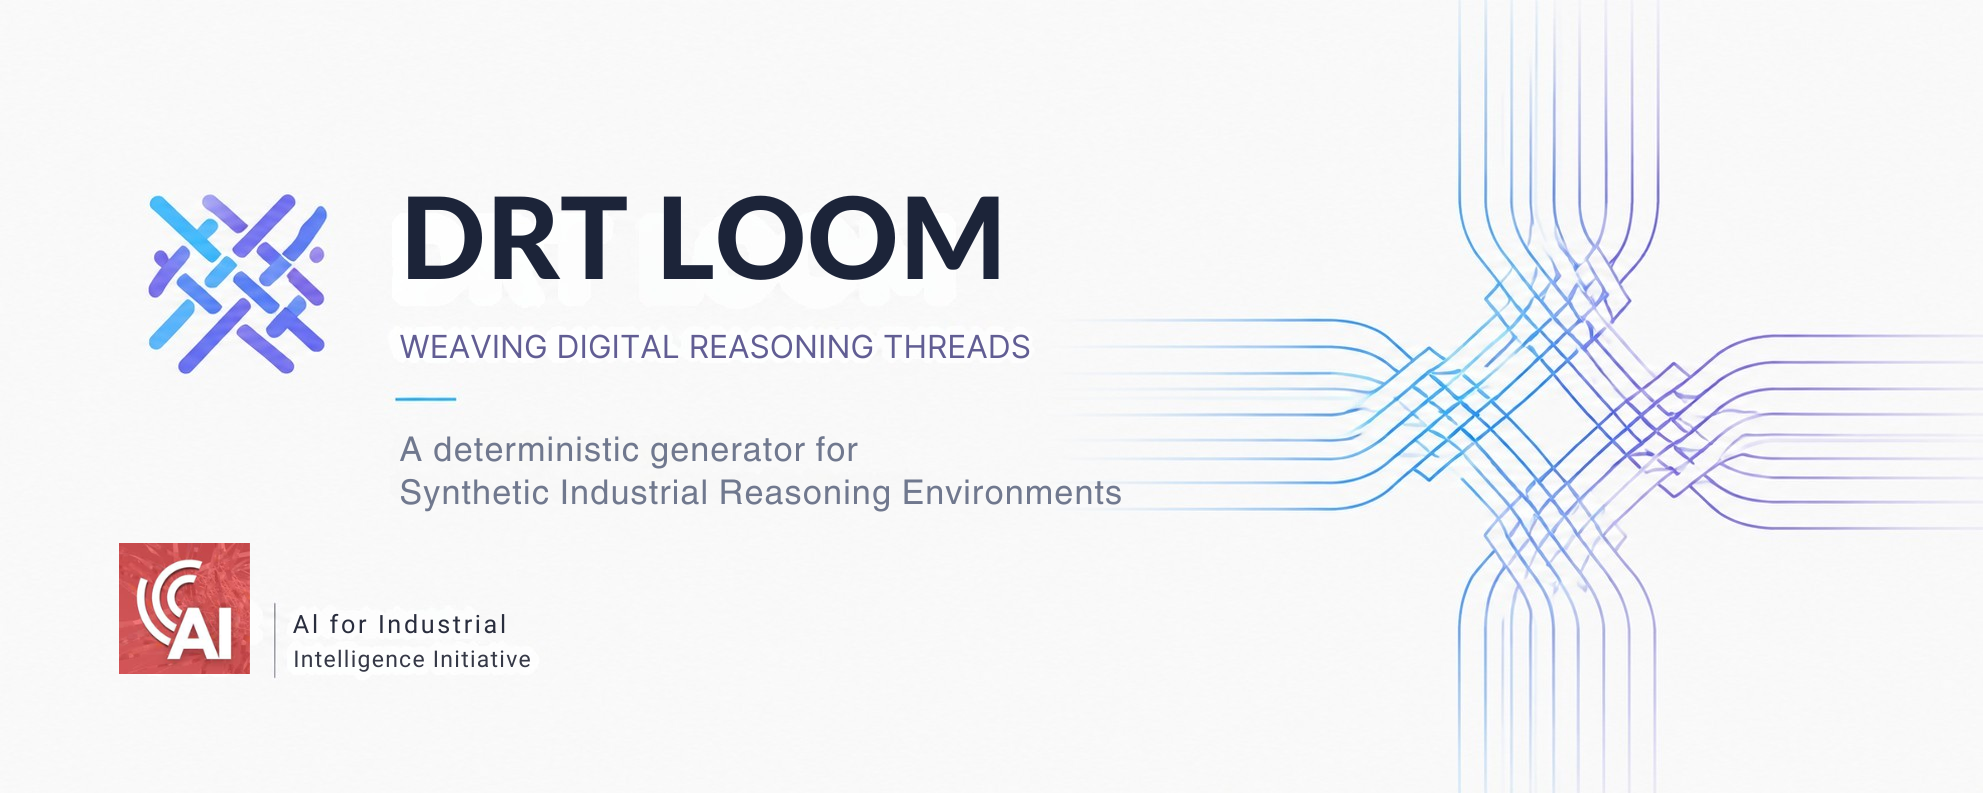
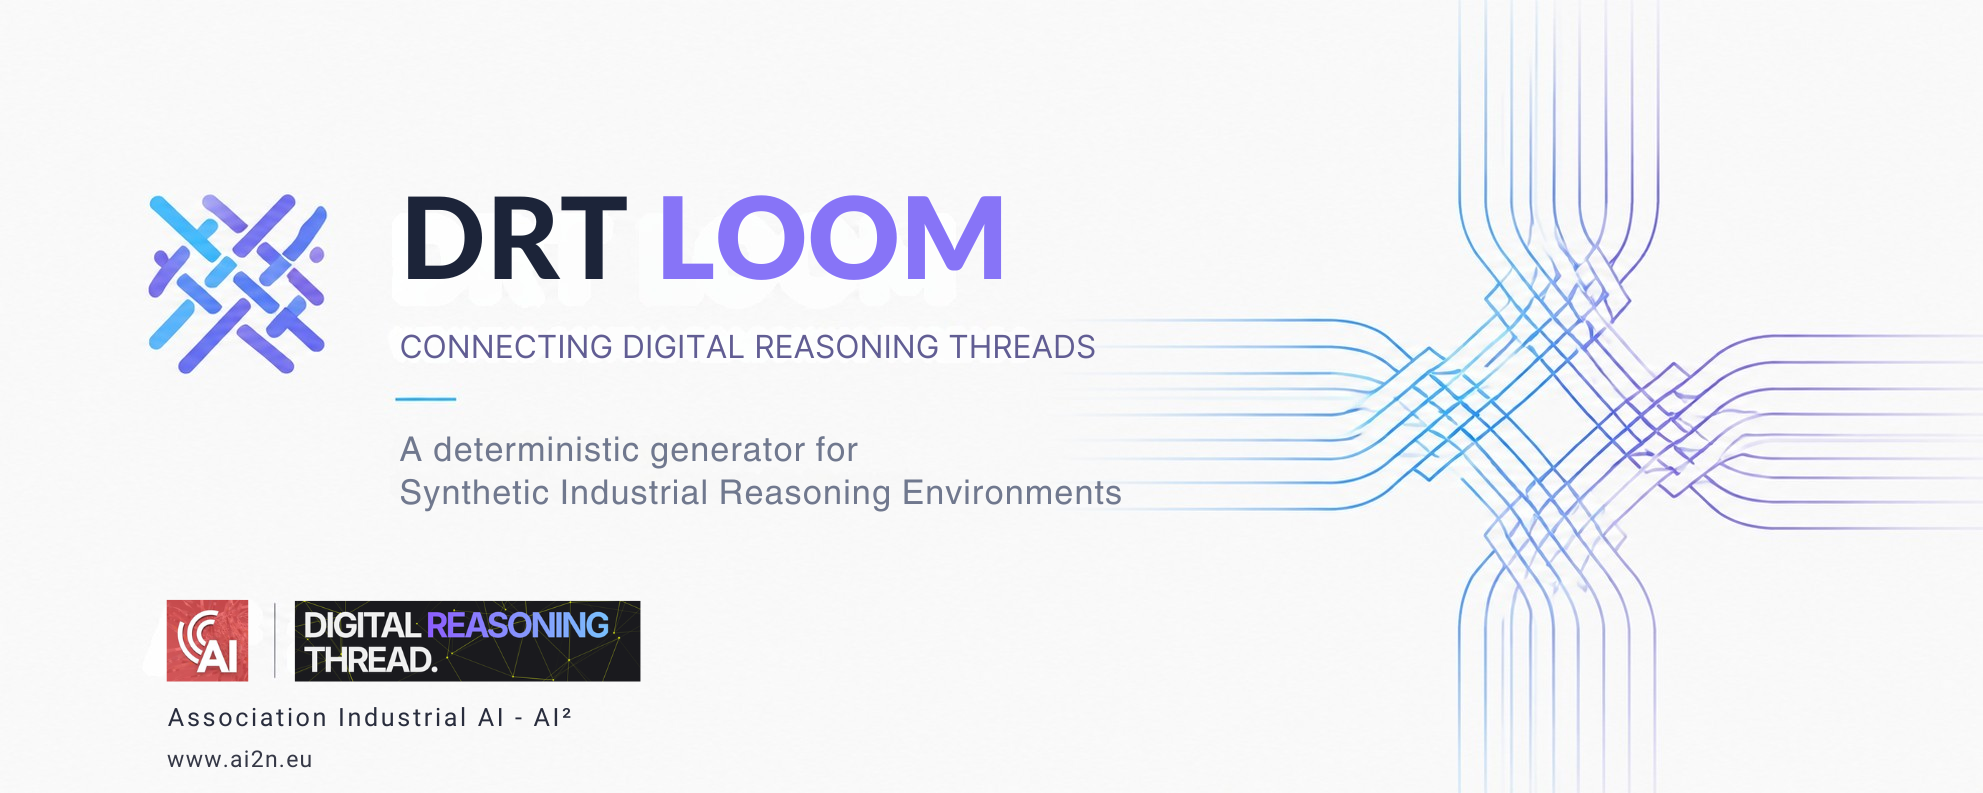
Add domain-extension guide, correct AI² name, link DRT concept site
Adds an appendix walking through extending DRT Loom to a new industrial domain,
using an Industrial Automation / OT layer as the worked example: alarm → tag →
control loop → equipment module → maintenance order → spare part → supplier.

Seven steps against the real APIs — declaring the closed type unions, writing a
generator over Builder and the seeded Rng, weaving the cross-domain hop that makes
it a reasoning thread, adding prose-only facts, deriving gold by traversal rather
than hardcoding it, wiring into the pipeline, and the two places that are not yet
domain-agnostic (the file_type enum in extract.py, the name-bearing type list in
score.ts). Documents the constraints that silently corrupt a build: parallel edges
of differing relation types, ids colliding with their source-file stem, and sanity
gates asserting on constants instead of shape.

The updated banner gives AI² its proper name, Association Industrial AI (ai2n.eu);
the README previously described it rather than named it. Also links the Digital
Reasoning Thread concept site and its repository, which specify the concept this
repository implements.

Changed region(s): [[0.0615, 0.6658, 0.3384, 0.9685], [0.3076, 0.2421, 0.5229, 0.3632], [0.1846, 0.4237, 0.5537, 0.454]]

diff --git a/README.md b/README.md
@@ -1,12 +1,13 @@
-![DRT Loom — weaving Digital Reasoning Threads. A deterministic generator for Synthetic Industrial Reasoning Environments. Part of the AI for Industrial Intelligence Initiative.](docs/assets/banner.png)
+![DRT Loom — connecting Digital Reasoning Threads. A deterministic generator for Synthetic Industrial Reasoning Environments. Association Industrial AI (AI²).](docs/assets/banner.png)
 
 # DRT Loom
 
 **A deterministic generator for Synthetic Industrial Reasoning Environments.**
 
-DRT Loom is a component of **AI²**, the AI for Industrial Intelligence Initiative —
-an open, vendor-neutral effort focused on Industrial Agentic AI. It is the
-reference implementation of the **Digital Reasoning Thread (DRT)** concept.
+DRT Loom is a component of **AI²**, the [Association Industrial AI](https://www.ai2n.eu)
+— an open, vendor-neutral initiative for Industrial Agentic AI. It is the reference
+implementation of the **Digital Reasoning Thread (DRT)** concept, which is specified
+at [digital-reasoning-thread.com](https://digital-reasoning-thread.com/).
 
 A loom does not make threads. It weaves them into fabric. DRT Loom does not
 generate synthetic data — it weaves ERP, PLM, MES, CAD, enterprise documents,
@@ -21,7 +22,7 @@ that connect them, a knowledge graph over the whole thing, and a set of benchmar
 questions instantiated against that specific world.
 
 ```
-AI²                                          AI for Industrial Intelligence Initiative
+AI²                                          Association Industrial AI
 └── Digital Reasoning Thread (DRT)           the unit of reasoning
     └── DRT Loom                             this repository
         ├── Synthetic Industrial Reasoning Environment Generator
@@ -30,6 +31,12 @@ AI²                                          AI for Industrial Intelligence Ini
         ├── Evaluation / Scoring
         └── Reference Worlds
 ```
+
+| | |
+|---|---|
+| Initiative | [Association Industrial AI (AI²)](https://www.ai2n.eu) |
+| Concept | [digital-reasoning-thread.com](https://digital-reasoning-thread.com/) · [vlarichev/digital-reasoning-thread](https://github.com/vlarichev/digital-reasoning-thread/) |
+| Implementation | this repository |
 
 ---
 
@@ -53,6 +60,11 @@ The DRT is therefore the fundamental unit of reasoning for Industrial Agentic AI
 and by extension the fundamental unit of evaluation. A system is not measured by
 whether it retrieves the right document, but by whether it can follow the thread
 to its end.
+
+The concept is specified separately from this implementation, at
+[digital-reasoning-thread.com](https://digital-reasoning-thread.com/)
+([source](https://github.com/vlarichev/digital-reasoning-thread/)). DRT Loom is
+where it becomes something you can generate and measure against.
 
 ---
 
@@ -156,6 +168,9 @@ equipment module → maintenance order → spare part → supplier — has a dif
 vocabulary from the manufacturing thread in §1 and the same shape. Both are chains
 of relationships spanning systems that no single system owns, and both are scored
 the same way.
+
+A worked, step-by-step guide to adding one: [Extending DRT Loom to a new
+domain](#appendix-extending-drt-loom-to-a-new-domain).
 
 **Status of this design goal.** Parts of the pipeline are already
 domain-independent: [`src/generate/rng.ts`](src/generate/rng.ts) is a pure seeded
@@ -480,6 +495,312 @@ quotes no comparative results.
    relation unions in `src/types.ts` behind a registered domain module, and remove
    the hardcoded entity-type filter in `src/score/score.ts`, so a second domain can
    be added without forking the generator.
+
+---
+
+## Appendix: extending DRT Loom to a new domain
+
+This is the concrete procedure behind the design goal in §4. It documents the
+current code as it stands — there is no plugin registry yet, so a new domain means
+editing the generator rather than installing into it. Everything below refers to
+real files and real function signatures.
+
+The worked example adds an **Industrial Automation / OT** layer to the existing
+environment: an alarm on a process tag, traced through control logic and equipment
+to a maintenance order, a spare part and the supplier who ships it.
+
+```
+Alarm → Tag → Control Loop → Equipment Module → Maintenance Order → Part → Supplier
+```
+
+Adding it to the existing world rather than starting a new one is the cheaper
+path, and the more interesting one: the thread terminates in the `Part` and
+`Supplier` entities the manufacturing domain already owns, so an OT question
+becomes answerable only by crossing into ERP.
+
+### Step 1 — declare the vocabulary
+
+Node and relation types are closed unions in [`src/types.ts`](src/types.ts).
+TypeScript will now flag every unhandled case, which is the point.
+
+```ts
+// src/types.ts
+export type NodeType =
+  | "Customer"
+  // … existing manufacturing types …
+  | "Shipment"
+  /* automation */
+  | "EquipmentModule"
+  | "ControlLoop"
+  | "Tag"
+  | "Alarm"
+  | "MaintenanceOrder";
+
+export type RelationType =
+  // … existing relations …
+  /* automation */
+  | "part_of_line"    // EquipmentModule  -> EquipmentModule
+  | "controls"        // ControlLoop      -> EquipmentModule
+  | "reads_tag"       // ControlLoop      -> Tag
+  | "raised_on"       // Alarm            -> Tag
+  | "triggered"       // Alarm            -> MaintenanceOrder
+  | "consumes_spare"; // MaintenanceOrder -> Part      ← crosses into ERP
+```
+
+One constraint to design around before you write any code: the graph build rejects
+**two different relation types between the same ordered pair** of entities. Graphify
+returns a `DiGraph`, so parallel edges collapse and a fact would be lost silently;
+[`extractor/extract.py`](extractor/extract.py) fails the build rather than allow it.
+Duplicate edges of the *same* type are fine and are collapsed with a note.
+
+### Step 2 — write the generator
+
+A domain module is a function over the shared [`Builder`](src/generate/builder.ts)
+and a seeded [`Rng`](src/generate/rng.ts). Create `src/generate/automation.ts`:
+
+```ts
+import type { Builder } from "./builder";
+import type { MasterData } from "./master-data";
+import { chance, dateBetween, int, pick, round, seq, type Rng } from "./rng";
+
+export interface AutomationIndex {
+  moduleIds: string[];
+  tagIds: string[];
+  alarmIds: string[];
+}
+
+export function buildAutomation(b: Builder, md: MasterData, rng: Rng): AutomationIndex {
+  const ix: AutomationIndex = { moduleIds: [], tagIds: [], alarmIds: [] };
+
+  for (let i = 1; i <= 12; i++) {
+    const modId = `EQM-${seq(i, 3)}`;
+    b.entity(modId, "EquipmentModule", `Equipment module ${seq(i, 3)}`, "ot/isa95_assets.json", {
+      isa95Level: "unit",
+      area: pick(rng, ["Machining", "Assembly", "Test", "Paint"]),
+      commissioned: dateBetween(rng, "2018-01-01", "2025-06-01"),
+    });
+    ix.moduleIds.push(modId);
+
+    const tagId = `TAG-${seq(i, 4)}`;
+    b.entity(tagId, "Tag", `${modId}.SpindleTemp`, "ot/tag_dictionary.csv", {
+      address: `DB${int(rng, 10, 99)}.DBD${int(rng, 0, 240)}`,
+      unit: "degC",
+      highLimit: round(70 + rng() * 20, 1),
+    });
+    ix.tagIds.push(tagId);
+
+    const loopId = `LOOP-${seq(i, 3)}`;
+    b.entity(loopId, "ControlLoop", `Thermal control ${seq(i, 3)}`, "ot/plc_program.json", {
+      block: `FB${int(rng, 100, 999)}`,
+      strategy: "PID",
+    });
+
+    b.rel(loopId, "controls", modId, { sourceFile: "ot/plc_program.json" });
+    b.rel(loopId, "reads_tag", tagId, { sourceFile: "ot/plc_program.json" });
+  }
+
+  return ix;
+}
+```
+
+Three rules the `Builder` enforces or assumes:
+
+- **Determinism.** Draw every random choice from `rng`. `Math.random()`, `Date.now()`
+  and `new Date()` break byte-identical rebuilds — use the `TODAY` constant and the
+  date helpers in `rng.ts` instead.
+- **Unique ids that survive the graph build.** `b.entity()` throws if an id repeats,
+  and also if the id slugifies to its own source file's stem — Graphify would
+  silently rewrite it. This is why source files are named `tag_dictionary.csv`
+  rather than `tag.csv`.
+- **`sourceFile` is a citation, not decoration.** It is what a system under
+  evaluation quotes back, and `extract.py` requires it on edges as well as nodes.
+  `b.rel()` inherits it from the source entity if you omit it.
+
+### Step 3 — weave the thread across domains
+
+This step is the whole point. A domain that only links to itself adds entities but
+no reasoning. The join into the existing manufacturing world is what creates a
+Digital Reasoning Thread:
+
+```ts
+// still in buildAutomation()
+for (const [i, tagId] of ix.tagIds.entries()) {
+  if (!chance(rng, 0.4)) continue;
+
+  const alarmId = `ALM-${seq(i + 1, 4)}`;
+  b.entity(alarmId, "Alarm", `High temperature — ${b.get(tagId).label}`, "ot/alarm_log.csv", {
+    severity: pick(rng, ["warning", "high", "critical"]),
+    raisedAt: dateBetween(rng, "2026-04-01", "2026-07-20"),
+    acknowledged: chance(rng, 0.7),
+  });
+  b.rel(alarmId, "raised_on", tagId, { sourceFile: "ot/alarm_log.csv" });
+  ix.alarmIds.push(alarmId);
+
+  const moId = `MO-${seq(i + 1, 4)}`;
+  b.entity(moId, "MaintenanceOrder", `Maintenance order ${seq(i + 1, 4)}`, "eam/maintenance_orders.json", {
+    status: pick(rng, ["open", "in_progress", "closed"]),
+    createdAt: dateBetween(rng, "2026-04-01", "2026-07-25"),
+  });
+  b.rel(alarmId, "triggered", moId, { sourceFile: "eam/maintenance_orders.json" });
+
+  // ── the cross-domain hop: an OT alarm now reaches an ERP part and its supplier
+  const spare = pick(rng, md.partIds);
+  b.rel(moId, "consumes_spare", spare, {
+    sourceFile: "eam/maintenance_orders.json",
+    confidence: "INFERRED", // the spare was matched by description, not by part number
+  });
+}
+```
+
+Mark an edge `INFERRED` or `AMBIGUOUS` wherever the join would be uncertain in a
+real integration. A system that treats an ambiguous edge as fact should be
+detectable, and the provenance tag is what makes that measurable.
+
+### Step 4 — add narrative documents
+
+Some facts must exist only in prose, or retrieval has nothing to win. Follow the
+`add()` helper pattern in [`src/generate/documents.ts`](src/generate/documents.ts),
+which registers the `Document` entity and both `references` / `documented_by`
+edges for you. Add any new family to the `DocFamily` union in `src/types.ts` first:
+
+```ts
+add(
+  `Shift handover — ${area} line, ${date}`,
+  "shift_log",
+  date,
+  [
+    `# Shift handover — ${area}`,
+    ``,
+    `Spindle temperature on ${b.get(modId).label} tripped twice during nights.`,
+    `Operator reduced feed by 15% as a workaround. Root cause not established;`,
+    `the coolant pump is suspected but has not been inspected.`,
+  ].join("\n"),
+  [modId, tagId, alarmId], // mentions → citation edges
+);
+```
+
+The workaround and the suspicion appear in no structured record. That is a
+`narrative` question, and a graph is no help with it — by design.
+
+### Step 5 — write questions and derive ground truth
+
+A question is a [`GoldAnswer`](src/generate/gold.ts). Derive `expectedIds` and
+`expectedValues` by walking the builder rather than hardcoding them, or the answer
+will not survive a change of seed:
+
+```ts
+// src/generate/gold.ts — inside buildGold(), which already has `ix` from indexRelations(b)
+const criticalAlarms = b
+  .all("Alarm")
+  .filter((a) => a.attrs.severity === "critical" && a.attrs.acknowledged === false);
+
+const exposedSuppliers = new Set<string>();
+for (const alarm of criticalAlarms) {
+  for (const mo of ix.out(alarm.id, "triggered")) {
+    for (const part of ix.out(mo, "consumes_spare")) {
+      for (const sup of ix.out(part, "approved_supplier")) exposedSuppliers.add(sup);
+    }
+  }
+}
+
+g.push({
+  id: "Q-OT-01",
+  category: "multi_hop",
+  question:
+    "Which suppliers would we need to contact to close out every unacknowledged " +
+    "critical alarm currently open on the shop floor?",
+  expectedIds: [...exposedSuppliers],
+  expectedValues: { supplierCount: exposedSuppliers.size },
+  reference:
+    `${criticalAlarms.length} unacknowledged critical alarms trace through maintenance ` +
+    `orders and spare parts to ${exposedSuppliers.size} approved suppliers.`,
+});
+```
+
+Four hops, three systems, and no document states the answer. Note that
+`expectedIds` and `expectedValues` are both derived from the same traversal, so
+they cannot disagree — the failure mode described in
+[KNOWN-ISSUES.md](KNOWN-ISSUES.md) #1 comes precisely from *not* doing this.
+
+Add a sanity gate in [`src/generate/index.ts`](src/generate/index.ts) that asserts
+on the shape of the result rather than a constant, so a different seed cannot
+quietly produce a degenerate question:
+
+```ts
+// good — survives a re-roll
+if (exposedSuppliers.size < 2) {
+  problems.push(`Q-OT-01 is trivial at this seed: ${exposedSuppliers.size} supplier(s)`);
+}
+
+// bad — this is the exact pattern that produced the known defect
+if (exposedSuppliers.size !== 7) problems.push("expected 7 suppliers");
+```
+
+### Step 6 — wire it into the pipeline
+
+```ts
+// src/generate/index.ts, inside main()
+const md = buildMasterData(b, rng);
+const tx = buildTransactions(b, md, rng);
+const ot = buildAutomation(b, md, rng);        // ← new, before documents
+const blockers = stageScriptedBlockers(b, md);
+const documents = buildDocuments(b, md, tx, rng);
+const nx = buildNxExport(b, md, rng);
+const gold = buildGold(b, md, blockers);
+
+b.verify();                                     // dangling endpoints fail here
+```
+
+Order matters: entities must exist before anything references them, and
+`b.verify()` fails the build on any dangling relation endpoint.
+
+### Step 7 — build the graph and score
+
+```bash
+npm run typecheck    # the closed unions catch every unhandled case
+npm run gen          # writes data/generated
+npm run graph        # Graphify → data/graph
+```
+
+The extractor needs **no changes**: `extract.py` copies `e["type"]` into
+`node_type` generically, and unknown attributes pass through verbatim. Two
+exceptions to know about:
+
+- `file_type` is a closed Graphify enum and an invalid value **drops the node
+  silently**. Everything maps to `concept` except `Document`, which maps to
+  `document`. If you add a second document-like type, extend that check at
+  [`extract.py:47`](extractor/extract.py#L47).
+- Scoring resolves entity names back to ids for citation credit, and the list of
+  name-bearing types is currently hardcoded at
+  [`score.ts:24`](src/score/score.ts#L24). Add your domain's types or answers
+  naming them will be scored as misses:
+
+```ts
+const NAME_BEARING: NodeType[] = [
+  "Customer", "Supplier", "Variant", "Part",
+  "EquipmentModule", "Tag",   // ← new
+];
+if (!NAME_BEARING.includes(e.type)) continue;
+```
+
+### Checklist
+
+| | |
+|---|---|
+| Types added to the `NodeType` / `RelationType` unions | `src/types.ts` |
+| No two relation types between the same ordered pair | enforced by `extract.py` |
+| All randomness drawn from the seeded `Rng` | no `Math.random`, no `Date.now` |
+| Entity ids unique and not colliding with their file stem | enforced by `Builder` |
+| At least one edge crossing into an existing domain | this is the thread |
+| Uncertain joins tagged `INFERRED` / `AMBIGUOUS` | `b.rel(..., { confidence })` |
+| At least one prose-only fact | so retrieval can win somewhere |
+| Gold derived by traversal, not hardcoded | `src/generate/gold.ts` |
+| Sanity gates assert on shape, not on constants | `src/generate/index.ts` |
+| Name-bearing types registered for scoring | `src/score/score.ts` |
+| Byte-identical output across two clean runs | `npm run gen` twice, `diff -r` |
+
+Contributions that add a domain are welcome, and so are contributions that break
+an existing gold answer.
 
 ---
 
